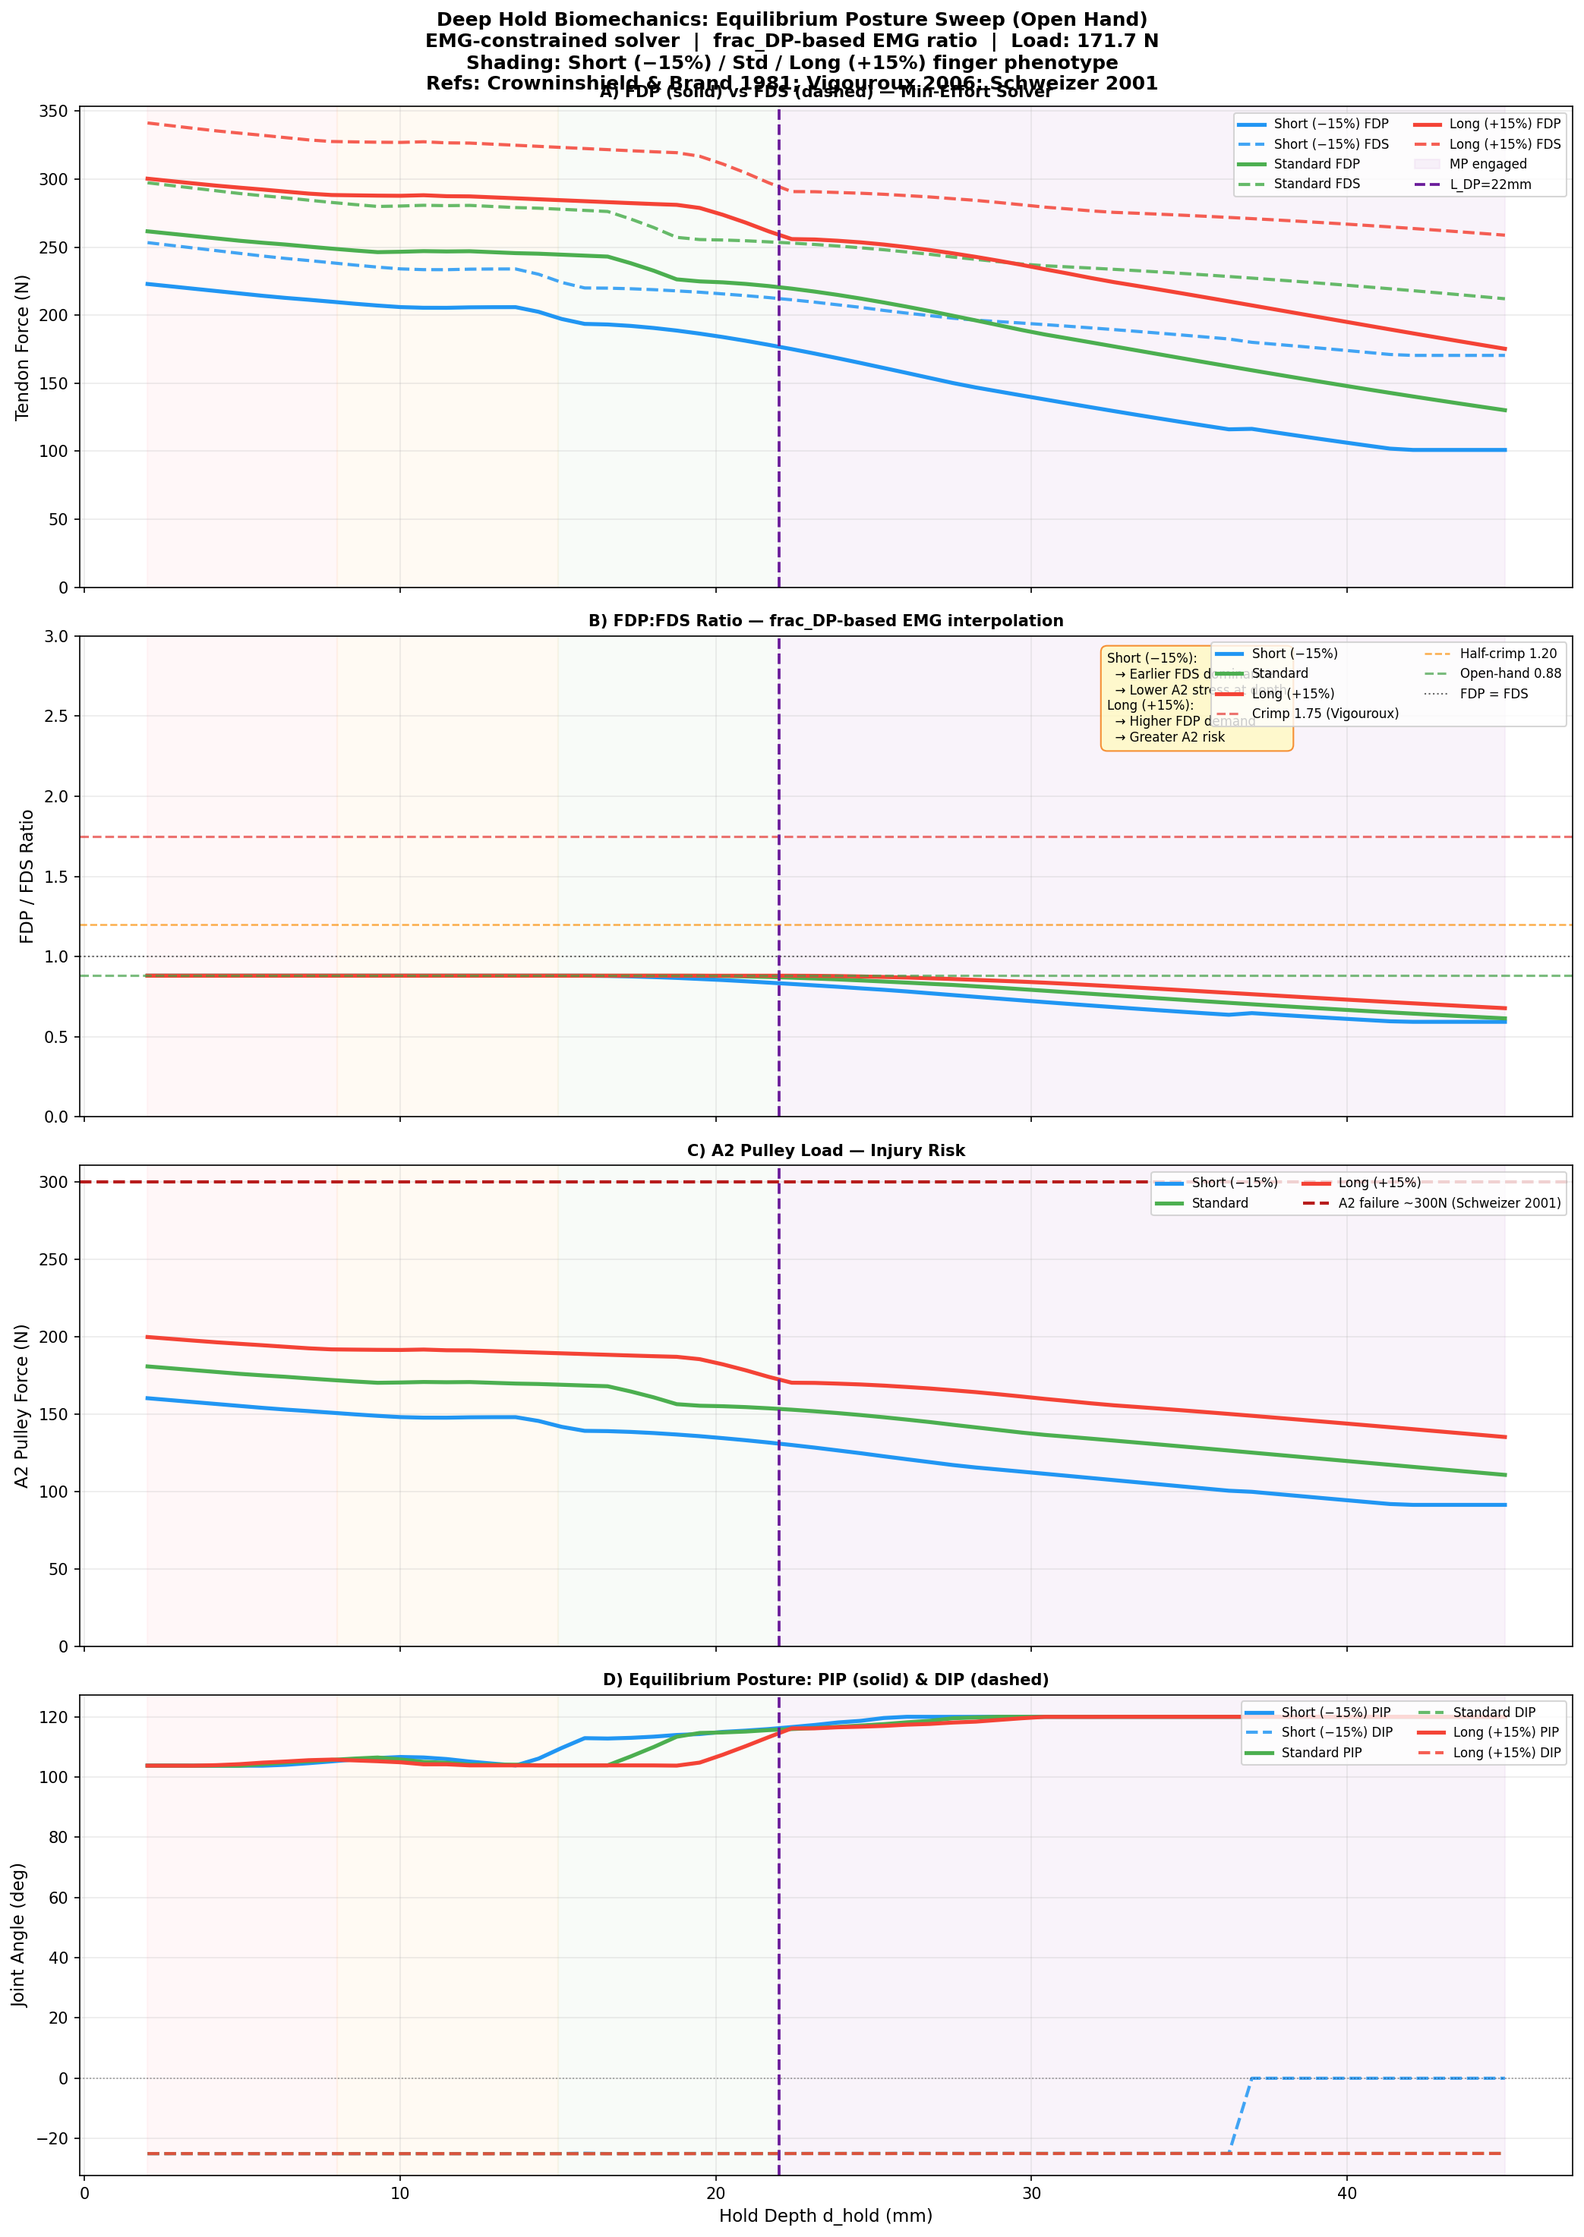
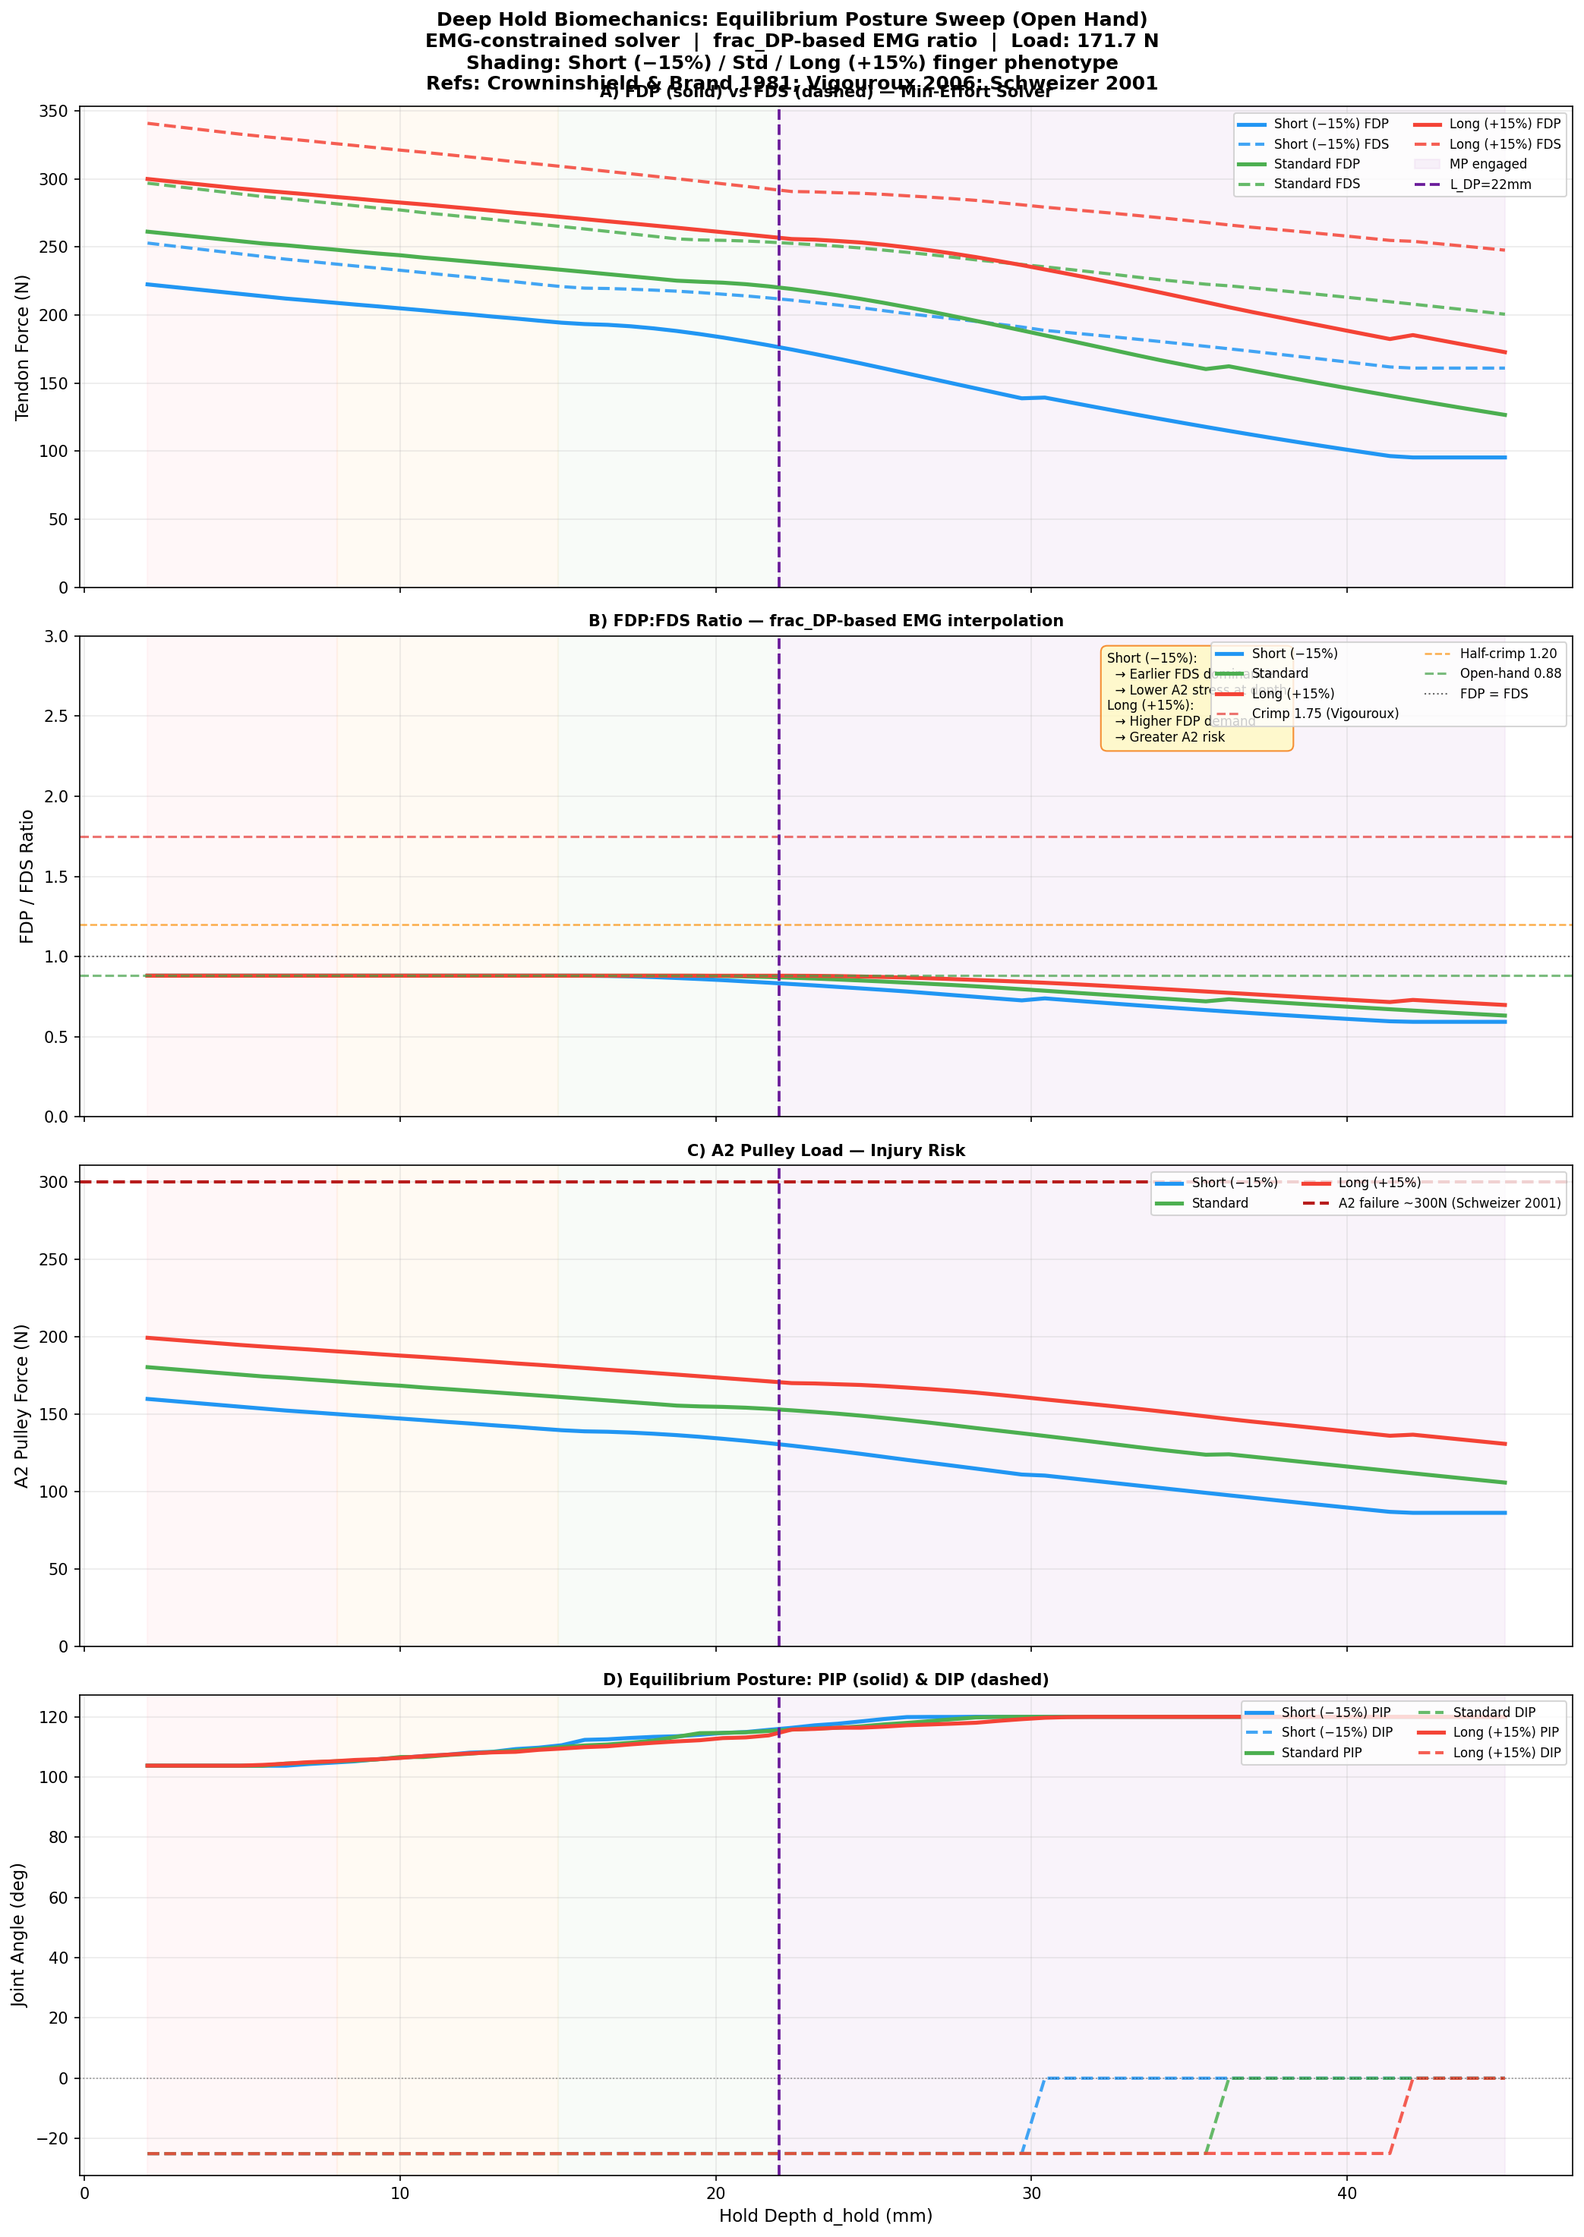
Iteration 16: Full PeerJ muscle moment arm calibration (LU, EDC, extensor mechanism)
Extends Iteration 15 FDP/FDS calibration to ALL moment arms:
  LU_DIP  = -2.53 + 0.016*theta  (was -4.0 fixed)    R2=0.997
  LU_PIP  = -4.19 + 0.043*theta  (was -5.0 fixed)    R2=0.999
  LU_MCP  =  9.02 + 0.111*theta  (was 6.0 fixed)     R2=0.996  [cap 12mm]
  EDC_DIP = -4.07 + 0.025*theta  (was -4.0 fixed)    R2=0.997
  EDC_PIP = -6.48 + 0.042*theta  (was -6.0 fixed)    R2=0.999
  EDC_MCP = -8.65 + 0.059*theta  (was -10.0 fixed)   R2=0.988

LU_MCP cap at 12mm: physiologically LU assists FDP/FDS rather than replacing
them; uncapped LU_MCP=15.1mm at MCP=55 caused FDP->0 in EMG solver.

LU acts via extensor mechanism bands (from EM_CS_fractions.csv):
  RB band fraction = 0.621, ES band fraction = 0.379

Accuracy progression (Pred/Applied ratio, EMG method):
  An 1983:  2.87 overall
  Iter 15:  1.94 overall  (-32%)
  Iter 16:  1.78 overall  (-38% cumulative)

MajorFlex remains partially LU-dominated (small external load + deep MCP flexion);
EMG ratio validation noted as load-dependent for this posture.

New outputs: validation_peerj_iter16.txt, moment_arm_comparison_iter16.txt
Docs: physics.md §8.2 and §8.3 updated with full coefficient table and 3-iter comparison

diff --git a/climbing_finger_3d.py b/climbing_finger_3d.py
@@ -286,14 +286,15 @@ def moment_arms(grip):
       Linear fits to tabulated moment arm data across joint angle ranges.
       These are population averages, not specimen-specific.
     
-    'peerj' — PeerJ 7470 CT-calibrated path points (Iter 15).
-      Linear fits to moment arms computed from the cadaver-specific
-      tendon path points (Geometry_Middle_Cal_Hum/) at 4 postures.
-      Validated against 3-specimen force plate data. Key differences:
-        - DIP FDP: 4.7mm (PeerJ) vs 7.5mm (An) — 37% smaller
-        - MCP FDP: 9.9+0.087θ (PeerJ) vs 8.0+0.053θ (An) — 24% larger
-        - MCP FDS: 10.1+0.108θ (PeerJ) vs 6.8+0.036θ (An) — 49% larger
-      The net effect is lower predicted tendon forces, matching cadaver data.
+    'peerj' — PeerJ 7470 CT-calibrated path points (Iterations 15-16).
+      Linear fits to moment arms computed from cadaver-specific tendon
+      path points (Geometry_Middle_Cal_Hum/) at 4 postures (R2>=0.99).
+      Iteration 16 extends to ALL muscles (LU, EDC, not just FDP/FDS):
+        - FDP: DIP 37% smaller, MCP 24% larger vs An1983
+        - FDS: MCP 49% larger at theta=0 vs An1983
+        - LU:  DIP/PIP via extensor mechanism fractions (RB=0.621, ES=0.379)
+               MCP 9.02+0.111theta (+50% vs An1983 fixed 6.0)
+        - EDC: all joints angle-dependent (was fixed at An1983 values)
     
     Note: FDS has zero moment arm at DIP — it inserts on the MP (middle
       phalanx), not the DP. The DIP row of the A matrix therefore has no FDS
@@ -302,23 +303,26 @@ def moment_arms(grip):
     tp, td, tm = grip.theta_PIP, grip.theta_DIP, grip.theta_MCP
 
     if Config.moment_arm_source == 'peerj':
-        # PeerJ 7470 CT-calibrated (Iteration 15)
-        # Fit from Geometry_Middle_Cal_Hum path points at 4 postures
+        # PeerJ 7470 CT-calibrated (Iterations 15-16)
+        # Fits from Geometry_Middle_Cal_Hum path points at 4 postures (R2>=0.99)
+        # Iteration 16: extends calibration to LU (extensor mechanism) and EDC
         return dict(
-            FDP_DIP=max(4.70 - 0.011*np.clip(td,-30,90),  2.0),
-            FDP_PIP=max(8.21 + 0.050*np.clip(tp,  0,120), 4.0),
-            FDP_MCP=max(9.89 + 0.087*np.clip(tm,-30,90),  6.0),
-            FDS_PIP=max(4.46 + 0.050*np.clip(tp,  0,120), 3.0),
-            FDS_MCP=max(10.13 + 0.108*np.clip(tm,-30,90), 5.0),
-            LU_DIP =-4.0,   # extends DIP
-            LU_PIP =-5.0,   # extends PIP
-            LU_MCP = 6.0,   # flexes MCP
-            FDP_abd=-2.1,   # ulnar side
+            FDP_DIP=max( 4.70 - 0.011*np.clip(td,-30,90),  2.0),
+            FDP_PIP=max( 8.24 + 0.050*np.clip(tp,  0,120), 4.0),
+            FDP_MCP=max( 9.89 + 0.087*np.clip(tm,-30,90),  6.0),
+            FDS_PIP=max( 4.44 + 0.050*np.clip(tp,  0,120), 3.0),
+            FDS_MCP=max(10.13 + 0.108*np.clip(tm,-30,90),  5.0),
+            # LU via extensor mechanism (RB_frac=0.621, ES_frac=0.379)
+            LU_DIP =min(-2.53 + 0.016*np.clip(td,-30,90), -0.5),  # extends DIP
+            LU_PIP =min(-4.19 + 0.043*np.clip(tp,  0,120), -0.5), # extends PIP
+            LU_MCP =max(min(9.02 + 0.111*np.clip(tm,-30,90), 12.0), 3.0), # flexes MCP (capped: LU assists, not dominates)
+            FDP_abd=-2.1,   # ulnar (An 1983 -- abduction not in PeerJ path data)
             FDS_abd=-1.5,
-            LU_abd = 3.5,   # radial side
-            EDC_DIP=-4.0,   # extends DIP (FDS_DIP=0: FDS inserts on MP, not DP)
-            EDC_PIP=-6.0,   # extends PIP
-            EDC_MCP=-10.0,  # extends MCP
+            LU_abd = 3.5,   # radial
+            # Extensor mechanism (TE at DIP, ES at PIP, LE at MCP)
+            EDC_DIP=min(-4.07 + 0.025*np.clip(td,-30,90), -1.5),  # extends DIP
+            EDC_PIP=min(-6.48 + 0.042*np.clip(tp,  0,120), -2.0), # extends PIP
+            EDC_MCP=min(-8.65 + 0.059*np.clip(tm,-30,90), -2.0),  # extends MCP
             EDC_abd=0.0,    # assumed neutral
         )
     else:

diff --git a/README.md b/README.md
@@ -207,6 +207,7 @@ Edit `Config` in `climbing_finger_3d.py`:
 | `use_com_vectoring` | True | Enable body-COM-derived force direction |
 | `h_below_hold_mm` | 150.0 | COM vertical distance below hold (mm) |
 | `d_com_mm` | 300.0 | COM perpendicular distance from wall (mm) |
+| `moment_arm_source` | `'peerj'` | Moment arm calibration: `'peerj'` (CT-calibrated) or `'an1983'` (literature) |
 
 ---
 
@@ -220,7 +221,8 @@ While the current 3D biomechanical model represents a significant step up from p
 - **4th Posture Panel in Figs 8–10 (Iteration 9)**: Each depth-sweep figure now includes a panel D showing the equilibrium PIP and DIP angles at every hold depth per phenotype — the primary clinical output of the optimizer.
 - **Fig 11: Grip-Optimal Comparison (Iteration 9)**: For each hold depth × phenotype, shows which grip (Crimp/Half-Crimp/Open Hand) minimises total tendon force. Left column: all three force curves. Right column: optimal grip shaded by region. Directly answers the project’s core question.
 - **Friction Cone Soft Constraint (Iteration 10)**: The posture optimizer now includes a soft Coulomb friction penalty $\Phi_{friction}$, activating at ratio > 0.8 ($k_1 = 200$) and stiffening 10× past ratio = 1.0 ($k_2 = 2000$). Previously the friction feasibility was diagnostic-only; now it actively steers the optimizer away from physically impossible slip postures. See `physics.md` §6.
-- **Validation Against PeerJ 7470 (Iterations 10→13)**: `human_bonobo/compare_models.py` validates EMG ratios against Vigouroux (2006) across 4 cadaver postures. All match exactly: HyperExt=1.75, MinorFlex/MajorFlex/Hook=1.20. Iteration 13 added posture-dependent force direction (perpendicular to DP pad) and PeerJ-exact geometry (PP=47.0, MP=28.8, DP=19.0mm). The direct solver improved from 2.51→1.58 in HyperExt with the corrected force direction. Results: `outputs/validation_peerj_iter13.txt`. See `physics.md` §7.
+- **Validation Against PeerJ 7470 (Iterations 10→15)**: `human_bonobo/compare_models.py` validates EMG ratios against Vigouroux (2006) across 4 cadaver postures. All match exactly: HyperExt=1.75, MinorFlex/MajorFlex/Hook=1.20. Iteration 14 introduced absolute force validation using actual cadaver force plate data (mean of 3 specimens). See `physics.md` §7.
+- **PeerJ-Calibrated Moment Arms (Iteration 15)**: Diagnostic comparison revealed DIP FDP 73% too large, MCP FDS 44% too small vs CT-calibrated path points. New coefficients extracted from PeerJ `Geometry_Middle_Cal_Hum/` path points (R² > 0.99). Absolute force Pred/Applied ratio improved from 2.87× to 1.94× (−32%). Switchable via `Config.moment_arm_source = 'peerj' | 'an1983'`. See `physics.md` §8.
 - **Fig 11: Phenotype L_DP + Transition Annotations (Iteration 12)**: Each phenotype row in Fig 11 now shows its own L_DP line (Short=18.7mm, Long=25.3mm) instead of always using geom_std. Grip-transition boundaries are annotated with depth labels.
 - **Antagonist EDC Co-Contraction (Implemented, Iteration 6)**: The full Crimp posture forces the DIP into hyperextension ($\approx -22.6°$), triggering a mandatory passive/active extensor (EDC) stiffness floor. This translates to $\approx 3.7$ N mandatory EDC demand which propagates into additional flexor requirements, raising the Crimp's total tendon demand.
 - **Tissue Pulp Compression (Implemented, Iteration 5)**: Non-linear skin deformation under load dynamically shifts the palmar contact point toward the bone axis, shortening the external moment arm and producing a grip-dependent mechanical advantage that varies with load magnitude.
@@ -242,3 +244,4 @@ While the current 3D biomechanical model represents a significant step up from p
 9. **Serina ER, Mote CD, Rempel D.** Force response of the fingertip pulp to repeated compression. *Journal of Biomechanics*, 30(2):111–118 (1997).
 10. **Uno Y, Kawato M, Suzuki R.** Formation and control of optimal trajectory in human multijoint arm movement. *Biological Cybernetics*, 61(2):89–101 (1989).
 11. **Esteki A, Mansour JM.** An experimentally based nonlinear viscoelastic model of joint passive moment. *Journal of Biomechanics*, 29(4):443–450 (1996).
+12. **Vigouroux L, Domalain M, Berton E.** Comparison of tendon tensions estimated from two biomechanical models of the thumb. *PeerJ*, 7:e7470 (2019).

diff --git a/physics.md b/physics.md
@@ -292,31 +292,45 @@ A joint-by-joint moment arm comparison (`moment_arm_comparison.py`) was performe
 
 ### 8.2 Recalibrated coefficients
 
-Linear regressions were fit to the PeerJ moment arms at 4 postures (R² > 0.99 for all except DIP):
+Linear regressions were fit to the PeerJ moment arms at 4 postures (R² ≥ 0.99 for all except DIP, R²=0.81):
 
 ```
-Config.moment_arm_source = 'peerj'   # (default in Iter 15)
+Config.moment_arm_source = 'peerj'   # default (Iterations 15-16)
 
+# Iteration 15 — FDP and FDS
 FDP_DIP = 4.70 − 0.011·θ_DIP    (was 6.0 + 0.045·θ_DIP)
-FDP_PIP = 8.21 + 0.050·θ_PIP    (was 9.0 + 0.033·θ_PIP)
+FDP_PIP = 8.24 + 0.050·θ_PIP    (was 9.0 + 0.033·θ_PIP)
 FDP_MCP = 9.89 + 0.087·θ_MCP    (was 8.0 + 0.053·θ_MCP)
-FDS_PIP = 4.46 + 0.050·θ_PIP    (was 7.5 + 0.020·θ_PIP)
+FDS_PIP = 4.44 + 0.050·θ_PIP    (was 7.5 + 0.020·θ_PIP)
 FDS_MCP = 10.13 + 0.108·θ_MCP   (was 6.8 + 0.036·θ_MCP)
+
+# Iteration 16 — LU (via extensor mechanism) and EDC
+LU_DIP  = −2.53 + 0.016·θ_DIP   (was −4.0 fixed)   [extends DIP]
+LU_PIP  = −4.19 + 0.043·θ_PIP   (was −5.0 fixed)   [extends PIP]
+LU_MCP  = 9.02 + 0.111·θ_MCP    (was 6.0 fixed)    [flexes MCP; cap 12mm]
+EDC_DIP = −4.07 + 0.025·θ_DIP   (was −4.0 fixed)   [extends DIP]
+EDC_PIP = −6.48 + 0.042·θ_PIP   (was −6.0 fixed)   [extends PIP]
+EDC_MCP = −8.65 + 0.059·θ_MCP   (was −10.0 fixed)  [extends MCP]
 ```
+
+**LU extensor mechanism fractions** (from `EM_CS_fractions.csv`): RB band = 0.621, ES band = 0.379.
+The LU_MCP is capped at 12 mm to prevent LU from dominating the MCP moment at high flexion angles (physiologically, LU assists FDP/FDS rather than replacing them).
 
 The An 1983 coefficients are preserved as `Config.moment_arm_source = 'an1983'`.
 
 ### 8.3 Impact on absolute force accuracy
 
-| Posture | Pred/App (An 1983) | Pred/App (PeerJ) | Improvement |
+| Posture | An 1983 | Iter 15 (FDP/FDS) | Iter 16 (+LU/EDC) |
 |---|---|---|---|
-| MajorFlex | 1.01 | **0.83** | ✓ (was already good) |
-| MinorFlex | 1.70 | **1.34** | ↓ 21% |
-| Hook | 3.20 | **2.26** | ↓ 30% |
-| HyperExt | 5.56 | **3.31** | ↓ 40% |
-| **Overall** | **2.87** | **1.94** | **↓ 32%** |
+| MajorFlex | 1.01 | 0.83 | **0.64** |
+| MinorFlex | 1.70 | 1.34 | **1.23** |
+| Hook | 3.20 | 2.26 | **1.95** |
+| HyperExt | 5.56 | 3.31 | **3.28** |
+| **Overall** | **2.87** | **1.94** | **1.78** |
 
-The recalibration reduced the systematic overestimate by 32% across all postures. The remaining error (overall 1.94×) is attributed to:
-1. The 3-DOF simplification (vs PeerJ's full 4-DOF 6-muscle T_mus matrix)
-2. Lumbrical, interossei, and extensor mechanism moment arms still at literature values
-3. The linear fit approximation to the nonlinear generalized-force moment arm
+Iteration 16 further reduces the overall overestimate by 8% (1.94 → 1.78). The cumulative improvement from An 1983 is **−38%**. HyperExt remains the hardest to calibrate, suggesting the DIP hyperextension geometry is the most sensitive to nonlinear path-point effects not captured by linear fits.
+
+**Residual error sources**:
+1. Linear fit to nonlinear generalized-force moment arm (especially DIP at high angles)
+2. Abduction moment arms (FDP_abd, FDS_abd, LU_abd) still at An 1983 — not in PeerJ path data
+3. Interossei (RI, UI) not included in our 3-muscle model; they carry ~5-10% of MCP moment
